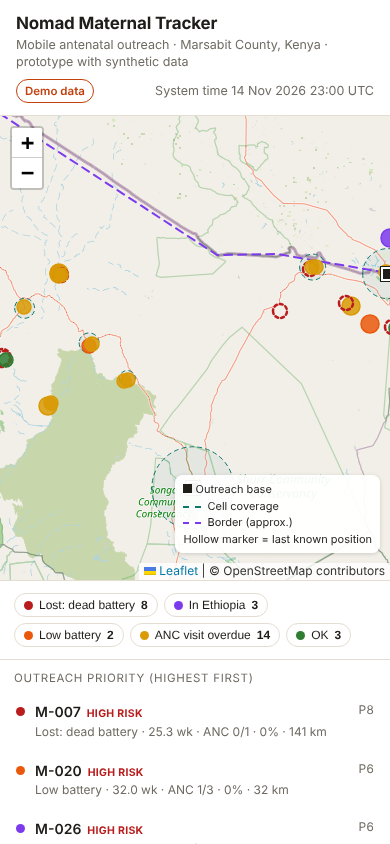
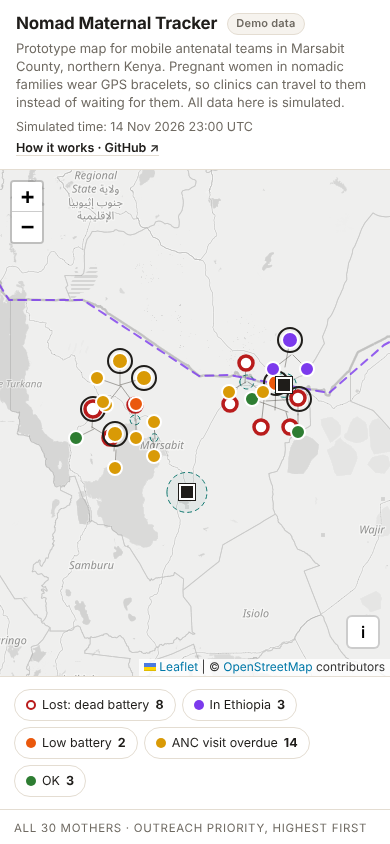
Dashboard redesign after design critique
- Muted greyscale base map; markers get white outlines so data stands out
- Fan out mothers at the same water point (no hidden markers); fit map to all mothers on load
- High-risk shown as black ring + outlined tag (red now only means dead battery)
- Context header for first-time visitors, 'Simulated time' label, link to README
- Secondary problem flags in the list; priority formula explained
- Accessibility: dark popup text (amber label was 2.5:1), 32px chips, keyboard-selectable list, legend toggle on mobile

diff --git a/dashboard/index.html b/dashboard/index.html
@@ -8,8 +8,7 @@
 <link rel="stylesheet" href="https://cdnjs.cloudflare.com/ajax/libs/leaflet/1.9.4/leaflet.min.css">
 <style>
   :root {
-    --bg: #f6f3ee; --panel: #ffffff; --ink: #1f1d1a; --muted: #6f6a62; --line: #e4ddd2;
-    --accent: #c2410c;
+    --bg: #f6f3ee; --panel: #ffffff; --ink: #1f1d1a; --muted: #6f6a62; --line: #e4ddd2; --hover: #f3efe8;
     --ok: #2e7d32; --anc: #d99a06; --low: #ea580c; --border: #7c3aed;
     --lostsig: #64748b; --lostbat: #b91c1c; --nodata: #a8a29e;
   }
@@ -17,105 +16,155 @@
   html, body { margin: 0; height: 100%; }
   body { font: 14px/1.4 system-ui, -apple-system, "Segoe UI", Roboto, sans-serif; color: var(--ink); background: var(--bg);
          display: grid; grid-template-rows: auto 1fr; }
-  header { display: flex; flex-wrap: wrap; gap: 8px 20px; align-items: center; padding: 12px 16px;
+  a { color: inherit; }
+
+  header { display: flex; flex-wrap: wrap; gap: 6px 20px; align-items: center; padding: 12px 16px;
            border-bottom: 1px solid var(--line); background: var(--panel); }
-  header h1 { font-size: 17px; margin: 0; letter-spacing: -0.01em; }
-  header .sub { color: var(--muted); font-size: 12.5px; }
-  .badge { font-size: 11.5px; font-weight: 600; padding: 3px 8px; border-radius: 999px; border: 1px solid var(--line); }
-  .badge.live { color: var(--ok); border-color: currentColor; }
-  .badge.demo { color: var(--accent); border-color: currentColor; }
-  .asof { margin-left: auto; color: var(--muted); font-size: 12.5px; }
-  main { display: grid; grid-template-columns: 360px 1fr; min-height: 0; }
+  .titles { min-width: 0; flex: 1 1 420px; }
+  header h1 { font-size: 17px; margin: 0; letter-spacing: -0.01em; display: flex; align-items: center; gap: 10px; flex-wrap: wrap; }
+  header .lede { margin: 3px 0 0; color: var(--muted); font-size: 13px; max-width: 760px; }
+  .badge { font-size: 11px; font-weight: 600; padding: 2px 8px; border-radius: 999px; border: 1px solid var(--line);
+           color: var(--muted); background: var(--bg); letter-spacing: .02em; }
+  .badge.live { color: var(--ok); border-color: currentColor; background: #fff; }
+  .meta-right { display: flex; flex-direction: column; align-items: flex-end; gap: 4px; font-size: 12.5px; color: var(--muted); }
+  .links a { font-weight: 600; color: var(--ink); text-decoration: none; border-bottom: 1px solid var(--line); }
+  .links a:hover { border-color: var(--ink); }
+
+  main { display: grid; grid-template-columns: 370px 1fr; min-height: 0; }
   aside { background: var(--panel); border-right: 1px solid var(--line); display: flex; flex-direction: column; min-height: 0; }
   .chips { display: flex; flex-wrap: wrap; gap: 6px; padding: 12px 14px; border-bottom: 1px solid var(--line); }
-  .chip { display: inline-flex; align-items: center; gap: 6px; font-size: 12px; padding: 4px 9px; border-radius: 999px;
-          border: 1px solid var(--line); background: #fff; cursor: pointer; color: var(--ink); }
+  .chip { display: inline-flex; align-items: center; gap: 6px; font: inherit; font-size: 12.5px; min-height: 32px; padding: 4px 11px;
+          border-radius: 999px; border: 1px solid var(--line); background: #fff; cursor: pointer; color: var(--ink); }
+  .chip:hover { border-color: var(--muted); }
   .chip[aria-pressed="true"] { background: var(--ink); color: #fff; border-color: var(--ink); }
-  .dot { width: 9px; height: 9px; border-radius: 50%; flex: none; }
+  .chip:focus-visible, li:focus-visible { outline: 2px solid var(--ink); outline-offset: 2px; }
+  .dot { width: 10px; height: 10px; border-radius: 50%; flex: none; display: inline-block; }
+  .dot.hollow { background: transparent !important; border: 2.5px solid; }
   .listhead { padding: 10px 14px 6px; font-size: 11.5px; text-transform: uppercase; letter-spacing: .06em; color: var(--muted); }
   ol { list-style: none; margin: 0; padding: 0 8px 12px; overflow-y: auto; }
   li { padding: 10px 8px; border-radius: 8px; cursor: pointer; display: grid; grid-template-columns: auto 1fr auto; gap: 2px 10px; }
-  li:hover, li.sel { background: #f3efe8; }
+  li:hover, li.sel { background: var(--hover); }
   li .dot { margin-top: 5px; }
   li .name { font-weight: 600; }
-  li .tag { font-size: 10.5px; font-weight: 700; color: var(--lostbat); margin-left: 6px; letter-spacing: .03em; }
-  li .meta { grid-column: 2 / 4; color: var(--muted); font-size: 12px; }
-  li .prio { font-variant-numeric: tabular-nums; font-size: 12px; color: var(--muted); }
-  #map { min-height: 0; }
-  .legend { background: rgba(255,255,255,.95); padding: 8px 10px; border-radius: 8px; font-size: 12px; line-height: 1.7;
+  .risk { font-size: 10.5px; font-weight: 700; letter-spacing: .04em; color: var(--ink); border: 1.5px solid var(--ink);
+          border-radius: 4px; padding: 0 4px; margin-left: 6px; vertical-align: 1px; }
+  li .flags { margin-left: 6px; font-size: 12px; letter-spacing: 1px; }
+  li .meta { grid-column: 2 / 4; color: var(--muted); font-size: 12.5px; }
+  li .prio { font-variant-numeric: tabular-nums; font-size: 12px; color: var(--muted); white-space: nowrap; }
+  .note { padding: 10px 14px; font-size: 12px; color: var(--muted); border-top: 1px solid var(--line); }
+
+  #map { min-height: 0; background: #eceae6; }
+  .leaflet-tile-pane { filter: grayscale(1) contrast(.85) brightness(1.08); opacity: .75; }
+  .legend { background: rgba(255,255,255,.96); padding: 8px 10px; border-radius: 8px; font-size: 12px; line-height: 1.75;
             box-shadow: 0 1px 4px rgba(0,0,0,.15); }
   .legend i { display: inline-block; width: 18px; border-top: 2px dashed; vertical-align: middle; margin-right: 6px; }
-  .pop b { font-size: 13.5px; } .pop table { border-collapse: collapse; margin-top: 4px; }
-  .pop td { padding: 1px 8px 1px 0; font-size: 12px; } .pop td:first-child { color: var(--muted); }
-  .note { padding: 10px 14px; font-size: 11.5px; color: var(--muted); border-top: 1px solid var(--line); }
+  .legend .sym { display: inline-block; width: 14px; height: 14px; border-radius: 50%; vertical-align: -2px; margin-right: 6px; }
+  .pop { min-width: 210px; }
+  .pop .head { font-size: 14px; font-weight: 700; display: flex; align-items: center; gap: 6px; flex-wrap: wrap; }
+  .pop .st { display: flex; align-items: center; gap: 6px; margin: 2px 0 4px; font-weight: 600; }
+  .pop table { border-collapse: collapse; }
+  .pop td { padding: 1px 10px 1px 0; font-size: 12.5px; } .pop td:first-child { color: var(--muted); }
+
   @media (max-width: 760px) {
     html, body { height: auto; }
     body { display: block; }
+    .meta-right { align-items: flex-start; }
     main { display: flex; flex-direction: column; }
-    #map { order: 1; height: 55vh; }
+    #map { order: 1; height: 60vh; }
     aside { order: 2; border-right: 0; border-top: 1px solid var(--line); }
     ol { overflow: visible; }
-    .legend { font-size: 11px; line-height: 1.5; padding: 6px 8px; }
+    .legend { display: none; }
+    .legend.open { display: block; }
+    .legend-toggle { display: block !important; }
   }
+  .legend-toggle { display: none; width: 34px; height: 34px; border-radius: 6px; border: 2px solid rgba(0,0,0,.2);
+                   background: #fff; font: 600 16px/1 system-ui; cursor: pointer; }
 </style>
 </head>
 <body>
 <header>
-  <div>
-    <h1>Nomad Maternal Tracker</h1>
-    <div class="sub">Mobile antenatal outreach · Marsabit County, Kenya · prototype with synthetic data</div>
+  <div class="titles">
+    <h1>Nomad Maternal Tracker <span id="source" class="badge">loading…</span></h1>
+    <p class="lede">Prototype map for mobile antenatal teams in Marsabit County, northern Kenya. Pregnant women in nomadic
+      families wear GPS bracelets, so clinics can travel to them instead of waiting for them. All data here is simulated.</p>
   </div>
-  <span id="source" class="badge">loading…</span>
-  <span id="asof" class="asof"></span>
+  <div class="meta-right">
+    <span id="asof"></span>
+    <span class="links"><a href="https://github.com/se-xy/nomad-maternal-tracker#readme" target="_blank" rel="noopener">How it works · GitHub ↗</a></span>
+  </div>
 </header>
 <main>
   <aside>
-    <div id="chips" class="chips"></div>
-    <div class="listhead" id="listhead">Outreach priority (highest first)</div>
+    <div id="chips" class="chips" role="group" aria-label="Filter by status"></div>
+    <div class="listhead" id="listhead">Outreach priority</div>
     <ol id="list"></ol>
-    <div class="note">All people and positions are simulated. Coordinates and the border line are approximate.</div>
+    <div class="note">Priority = 3 × high risk + 2 × ANC overdue + 2 × lost contact + in Ethiopia + low battery + 36 weeks or more.
+      Coordinates and the border line are approximate.</div>
   </aside>
-  <div id="map"></div>
+  <div id="map" role="region" aria-label="Map of mothers' last known positions"></div>
 </main>
 
 <script src="https://cdnjs.cloudflare.com/ajax/libs/leaflet/1.9.4/leaflet.min.js"></script>
 <script>
 const STATUS = {
-  lost_battery:   { label: "Lost: dead battery",   color: "var(--lostbat)" },
-  lost_no_signal: { label: "Lost: no signal",      color: "var(--lostsig)" },
-  across_border:  { label: "In Ethiopia",          color: "var(--border)" },
-  low_battery:    { label: "Low battery",          color: "var(--low)" },
-  anc_overdue:    { label: "ANC visit overdue",    color: "var(--anc)" },
-  ok:             { label: "OK",                   color: "var(--ok)" },
-  no_data:        { label: "No data yet",          color: "var(--nodata)" },
+  lost_battery:   { label: "Lost: dead battery", color: "--lostbat", hollow: true },
+  lost_no_signal: { label: "Lost: no signal",    color: "--lostsig", hollow: true },
+  across_border:  { label: "In Ethiopia",        color: "--border" },
+  low_battery:    { label: "Low battery",        color: "--low" },
+  anc_overdue:    { label: "ANC visit overdue",  color: "--anc" },
+  ok:             { label: "OK",                 color: "--ok" },
+  no_data:        { label: "No data yet",        color: "--nodata", hollow: true },
 };
-const css = v => getComputedStyle(document.documentElement).getPropertyValue(v.slice(4, -1)).trim();
+const FLAGS = [  // secondary problems shown next to the name, beyond the main status colour
+  ["anc_overdue",   "🩺", "ANC visit overdue"],
+  ["low_battery",   "🔋", "Low battery"],
+  ["across_border", "🛂", "In Ethiopia"],
+  ["lost",          "📡", "No recent contact"],
+];
+const cssVar = v => getComputedStyle(document.documentElement).getPropertyValue(v).trim();
+const st = r => STATUS[r.status] || STATUS.no_data;
 const forceDemo = new URLSearchParams(location.search).has("demo");
+
 const map = L.map("map", { zoomControl: true });
+// OpenStreetMap tiles, desaturated via CSS (.leaflet-tile-pane) so the data, not the terrain, stands out.
 L.tileLayer("https://{s}.tile.openstreetmap.org/{z}/{x}/{y}.png", {
-  maxZoom: 13, attribution: "&copy; OpenStreetMap contributors",
+  maxZoom: 14, attribution: '&copy; <a href="https://www.openstreetmap.org/copyright">OpenStreetMap</a> contributors',
 }).addTo(map);
 
-let markers = {}, rows = [], filter = null, selected = null, mode = null;
+let markers = {}, bases = [], rows = [], filter = null, selected = null, mode = null, timer = null;
 const markerLayer = L.layerGroup().addTo(map);
 
 async function loadRegion() {
   const region = await (await fetch("../geo/region.json")).json();
   map.setView(region.map_center, region.map_zoom);
   region.cell_coverage.forEach(c => L.circle([c.lat, c.lon], {
-    radius: c.radius_km * 1000, color: "#0f766e", weight: 1, dashArray: "4 4", fillOpacity: 0.06,
-  }).bindTooltip(`${c.name}: cell coverage`).addTo(map));
-  L.polyline(region.border.map(([lon, lat]) => [lat, lon]), { color: "#7c3aed", weight: 2, dashArray: "8 6" })
+    radius: c.radius_km * 1000, color: "#0f766e", weight: 1, dashArray: "4 4", fillOpacity: 0.05, interactive: false,
+  }).addTo(map));
+  L.polyline(region.border.map(([lon, lat]) => [lat, lon]), { color: "#7c3aed", weight: 2, dashArray: "8 6", opacity: .8 })
     .bindTooltip("Kenya–Ethiopia border (approximate)").addTo(map);
+  bases = region.outreach_bases.map(b => [b.lat, b.lon]);
   region.outreach_bases.forEach(b => L.marker([b.lat, b.lon], {
-    icon: L.divIcon({ className: "", html: '<div style="width:14px;height:14px;background:#1f1d1a;border:2px solid #fff;box-shadow:0 0 0 1px #1f1d1a"></div>', iconSize: [14, 14] }),
+    icon: L.divIcon({ className: "", iconSize: [16, 16],
+      html: '<div style="width:16px;height:16px;background:#1f1d1a;border:2px solid #fff;box-shadow:0 0 0 1px #1f1d1a"></div>' }),
+    keyboard: false,
   }).bindTooltip(b.name).addTo(map));
+
   const legend = L.control({ position: "bottomright" });
-  legend.onAdd = () => Object.assign(L.DomUtil.create("div", "legend"), { innerHTML:
-    '<div><span class="dot" style="display:inline-block;background:#1f1d1a;border-radius:0"></span> Outreach base</div>' +
-    '<div><i style="border-color:#0f766e"></i>Cell coverage</div>' +
-    '<div><i style="border-color:#7c3aed"></i>Border (approx.)</div>' +
-    '<div>Hollow marker = last known position</div>' });
+  legend.onAdd = () => {
+    const wrap = L.DomUtil.create("div");
+    wrap.innerHTML = `<button class="legend-toggle" aria-label="Show map legend">i</button>
+      <div class="legend">
+        <div><span class="sym" style="background:#1f1d1a;border-radius:0"></span>Outreach base</div>
+        <div><span class="sym" style="background:var(--anc);border:2px solid #fff;box-shadow:0 0 0 1px #ccc"></span>Current position</div>
+        <div><span class="sym" style="border:3px solid var(--lostbat);background:#fff"></span>Last known position (lost)</div>
+        <div><span class="sym" style="background:var(--ok);box-shadow:0 0 0 2px #fff,0 0 0 4px #1f1d1a"></span>High-risk pregnancy</div>
+        <div><i style="border-color:#0f766e"></i>Cell coverage</div>
+        <div><i style="border-color:#7c3aed"></i>Border (approx.)</div>
+      </div>`;
+    L.DomEvent.disableClickPropagation(wrap);
+    wrap.querySelector(".legend-toggle").onclick = () => wrap.querySelector(".legend").classList.toggle("open");
+    return wrap;
+  };
   legend.addTo(map);
 }
 
@@ -130,86 +179,126 @@ async function loadData() {
 }
 
 const num = v => (v === null || v === undefined || v === "" ? null : Number(v));
-const fmt = (v, d = 0) => (v === null ? "–" : v.toFixed(d));
+const bool = v => v === true || v === "true" || v === "t";
+const fmt = (v, d = 0) => (v === null || Number.isNaN(v) ? "–" : v.toFixed(d));
 
 function normalise(r) {
   // n8n's Postgres node returns numeric columns as strings, so coerce everything once.
   return { ...r, lat: num(r.lat), lon: num(r.lon), battery_pct: num(r.battery_pct), temp_c: num(r.temp_c),
            hours_since_fix: num(r.hours_since_fix), gestation_weeks: num(r.gestation_weeks),
            km_to_base: num(r.km_to_base), priority: num(r.priority) ?? 0,
-           anc_visits_done: num(r.anc_visits_done), anc_expected: num(r.anc_expected) };
+           anc_visits_done: num(r.anc_visits_done), anc_expected: num(r.anc_expected),
+           high_risk: bool(r.high_risk), solar: bool(r.solar), lost: bool(r.lost), low_battery: bool(r.low_battery),
+           across_border: bool(r.across_border), anc_overdue: bool(r.anc_overdue) };
 }
 
+const dotHtml = s => `<span class="dot${s.hollow ? " hollow" : ""}" style="${s.hollow ? "border-color" : "background"}:var(${s.color})"></span>`;
+const riskHtml = r => (r.high_risk ? '<span class="risk">HIGH RISK</span>' : "");
+const flagsHtml = r => {
+  const f = FLAGS.filter(([k, , label]) => r[k] && st(r).label !== label && !(k === "lost" && r.status.startsWith("lost")) && !(k === "low_battery" && r.status === "lost_battery"));
+  return f.length ? `<span class="flags" title="${f.map(x => x[2]).join(", ")}">${f.map(x => x[1]).join("")}</span>` : "";
+};
+
 function popup(r) {
-  const s = STATUS[r.status] || STATUS.no_data;
-  return `<div class="pop"><b>${r.alias}</b> · <span style="color:${css(s.color)}">${s.label}</span>
-    ${r.high_risk ? ' · <b style="color:#b91c1c">HIGH RISK</b>' : ""}
+  const s = st(r);
+  return `<div class="pop"><div class="head">${r.alias}${riskHtml(r)}</div>
+    <div class="st">${dotHtml(s)}${s.label}</div>
     <table>
       <tr><td>Gestation</td><td>${fmt(r.gestation_weeks, 1)} weeks</td></tr>
-      <tr><td>ANC visits</td><td>${r.anc_visits_done} of ${r.anc_expected} expected</td></tr>
+      <tr><td>ANC visits</td><td>${r.anc_visits_done} of ${r.anc_expected} expected${r.anc_overdue ? " — overdue" : ""}</td></tr>
       <tr><td>Last fix</td><td>${fmt(r.hours_since_fix, 1)} h ago via ${r.last_link || "–"}</td></tr>
       <tr><td>Battery</td><td>${fmt(r.battery_pct)}% ${r.solar ? "(solar)" : "(no solar)"}</td></tr>
       <tr><td>Distance</td><td>${fmt(r.km_to_base, 1)} km to ${r.nearest_base || "–"}</td></tr>
-      <tr><td>Device</td><td>${r.device_id}</td></tr>
+      <tr><td>Priority</td><td>${r.priority}</td></tr>
     </table></div>`;
 }
 
-function render() {
+// Mothers resting at the same water point overlap. Group markers that are within a few pixels
+// at the current zoom and fan each group out in a small ring, with a thin line to the true spot.
+function drawMarkers() {
   markerLayer.clearLayers(); markers = {};
-  const shown = rows.filter(r => !filter || r.status === filter);
-  shown.filter(r => r.lat !== null).forEach(r => {
-    const s = STATUS[r.status] || STATUS.no_data, c = css(s.color);
-    const lost = r.status.startsWith("lost");
-    const m = L.circleMarker([r.lat, r.lon], {
-      radius: r.high_risk ? 9 : 7, color: c, weight: lost ? 2.5 : 1.5,
-      fillColor: c, fillOpacity: lost ? 0 : 0.85, dashArray: lost ? "3 3" : null,
-    }).bindPopup(popup(r));
-    m.on("click", () => select(r.alias, false));
-    markers[r.alias] = m.addTo(markerLayer);
+  const pts = rows.filter(r => r.lat !== null && (!filter || r.status === filter))
+    .map(r => ({ r, p: map.latLngToLayerPoint([r.lat, r.lon]) }));
+  const groups = [];
+  pts.forEach(pt => {
+    const g = groups.find(g => g.c.distanceTo(pt.p) < 18);
+    if (g) { g.items.push(pt); g.c = g.items.reduce((a, x) => a.add(x.p), L.point(0, 0)).divideBy(g.items.length); }
+    else groups.push({ c: pt.p, items: [pt] });
   });
+  groups.forEach(g => {
+    const n = g.items.length, ring = n === 1 ? 0 : 12 + n * 2.5;
+    g.items.forEach((pt, i) => {
+      const a = (2 * Math.PI * i) / n - Math.PI / 2;
+      const pos = map.layerPointToLatLng(n === 1 ? pt.p : g.c.add(L.point(ring * Math.cos(a), ring * Math.sin(a))));
+      if (n > 1) L.polyline([map.layerPointToLatLng(pt.p), pos], { color: "#57534e", weight: 1, opacity: .5, interactive: false }).addTo(markerLayer);
+      const r = pt.r, s = st(r), c = cssVar(s.color), rad = r.high_risk ? 8 : 7;
+      if (r.high_risk) L.circleMarker(pos, { radius: rad + 4, color: "#1f1d1a", weight: 2, fill: false, interactive: false }).addTo(markerLayer);
+      const m = L.circleMarker(pos, s.hollow
+        ? { radius: rad, color: c, weight: 3.5, fillColor: "#fff", fillOpacity: 1 }
+        : { radius: rad, color: "#fff", weight: 2, fillColor: c, fillOpacity: 1 })
+        .bindPopup(popup(r)).bindTooltip(`${r.alias} · ${s.label}`, { direction: "top", offset: [0, -8] });
+      m.on("click", () => select(r.alias, false));
+      markers[r.alias] = m.addTo(markerLayer);
+    });
+  });
+}
 
+function render() {
+  drawMarkers();
+  const shown = rows.filter(r => !filter || r.status === filter);
   const counts = rows.reduce((a, r) => (a[r.status] = (a[r.status] || 0) + 1, a), {});
   document.getElementById("chips").innerHTML = Object.entries(STATUS).filter(([k]) => counts[k])
-    .map(([k, s]) => `<button class="chip" data-k="${k}" aria-pressed="${filter === k}">
-      <span class="dot" style="background:${css(s.color)}"></span>${s.label} <b>${counts[k]}</b></button>`).join("");
+    .map(([k, s]) => `<button class="chip" data-k="${k}" aria-pressed="${filter === k}">${dotHtml(s)}${s.label} <b>${counts[k]}</b></button>`).join("");
   document.querySelectorAll(".chip").forEach(b => b.onclick = () => { filter = filter === b.dataset.k ? null : b.dataset.k; render(); });
 
   document.getElementById("listhead").textContent = filter
     ? `${shown.length} of ${rows.length} mothers · ${STATUS[filter].label}`
     : `All ${rows.length} mothers · outreach priority, highest first`;
   document.getElementById("list").innerHTML = shown.map(r => {
-    const s = STATUS[r.status] || STATUS.no_data;
-    return `<li data-a="${r.alias}" class="${selected === r.alias ? "sel" : ""}">
-      <span class="dot" style="background:${css(s.color)}"></span>
-      <span><span class="name">${r.alias}</span>${r.high_risk ? '<span class="tag">HIGH RISK</span>' : ""}</span>
-      <span class="prio">P${r.priority}</span>
+    const s = st(r);
+    return `<li tabindex="0" data-a="${r.alias}" class="${selected === r.alias ? "sel" : ""}">
+      ${dotHtml(s)}
+      <span><span class="name">${r.alias}</span>${riskHtml(r)}${flagsHtml(r)}</span>
+      <span class="prio" title="Outreach priority score">Priority ${r.priority}</span>
       <span class="meta">${s.label} · ${fmt(r.gestation_weeks, 1)} wk · ANC ${r.anc_visits_done}/${r.anc_expected}
-        · ${fmt(r.battery_pct)}% · ${fmt(r.km_to_base)} km</span></li>`;
+        · ${fmt(r.battery_pct)}% · ${fmt(r.km_to_base)} km to base</span></li>`;
   }).join("");
-  document.querySelectorAll("#list li").forEach(li => li.onclick = () => select(li.dataset.a, true));
+  document.querySelectorAll("#list li").forEach(li => {
+    li.onclick = () => select(li.dataset.a, true);
+    li.onkeydown = e => { if (e.key === "Enter" || e.key === " ") { e.preventDefault(); select(li.dataset.a, true); } };
+  });
 }
 
 function select(alias, fly) {
   selected = alias;
   document.querySelectorAll("#list li").forEach(li => li.classList.toggle("sel", li.dataset.a === alias));
-  const m = markers[alias];
-  if (m && fly) { map.flyTo(m.getLatLng(), 10, { duration: 0.6 }); m.openPopup(); }
+  const r = rows.find(x => x.alias === alias);
+  if (fly && r && r.lat !== null) {
+    map.once("moveend", () => markers[alias]?.openPopup());
+    map.flyTo([r.lat, r.lon], Math.max(map.getZoom(), 11), { duration: 0.6 });
+  }
   document.querySelector(`#list li[data-a="${alias}"]`)?.scrollIntoView({ block: "nearest" });
 }
 
 async function refresh() {
   const [src, data] = await loadData();
-  rows = data.map(normalise).sort((a, b) => b.priority - a.priority);
+  rows = data.map(normalise).sort((a, b) => b.priority - a.priority || a.alias.localeCompare(b.alias));
   const badge = document.getElementById("source");
   badge.textContent = src === "live" ? "Live" : "Demo data";
   badge.className = "badge " + src;
   const t = rows.map(r => r.last_fix_at).filter(Boolean).sort().pop();
-  document.getElementById("asof").textContent = t ? "System time " + new Date(t).toUTCString().slice(5, 22) + " UTC" : "";
+  document.getElementById("asof").textContent = t
+    ? `${src === "live" ? "System" : "Simulated"} time: ${new Date(t).toUTCString().slice(5, 22)} UTC` : "";
+  if (!mode) {   // first load: frame all mothers and both outreach bases
+    const ll = rows.filter(r => r.lat !== null).map(r => [r.lat, r.lon]);
+    if (ll.length) map.fitBounds(L.latLngBounds(ll).extend(bases), { padding: [30, 30], maxZoom: 10 });
+  }
   render();
-  if (src === "live" && mode !== "live") setInterval(refresh, 10000);
+  if (src === "live" && !timer) timer = setInterval(refresh, 10000);
   mode = src;
 }
 
+map.on("zoomend", () => rows.length && drawMarkers());
 loadRegion().then(refresh);
 </script>
 </body>
